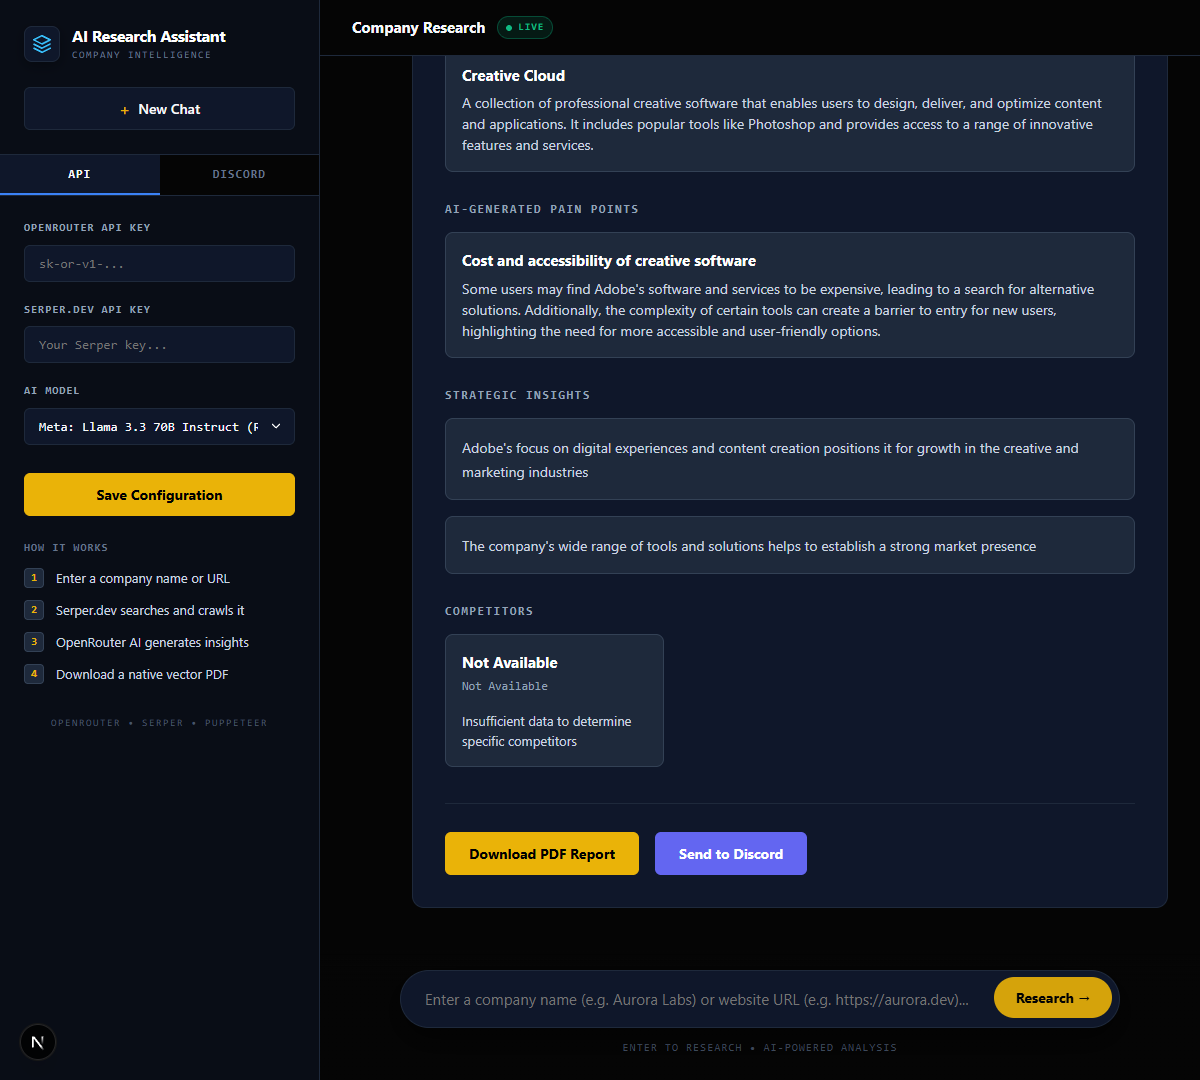
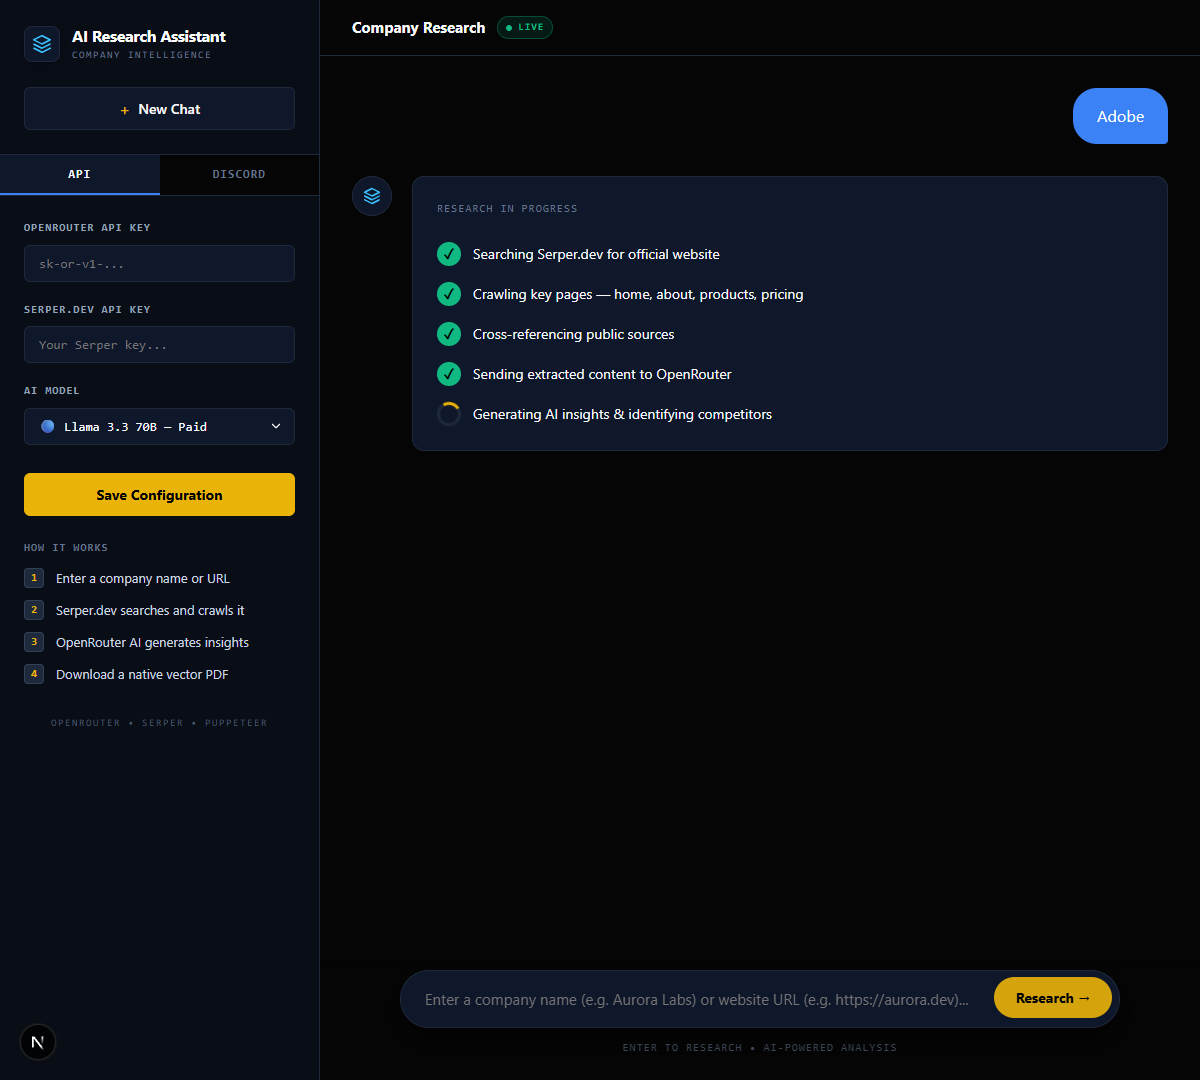
Fix Discord file payload bytes, disable auto-send, and fix Vercel Chromium 404 URL

diff --git a/outputs/Stripe_PDF_Source.html b/outputs/Stripe_PDF_Source.html
@@ -156,42 +156,42 @@
       <body>
         <div class="header-banner">
           <div class="subtitle">Executive Intelligence Report</div>
-          <h1 class="title">OpenAI</h1>
+          <h1 class="title">Frontech</h1>
           <div class="meta-info">
-            <div><strong>Website:</strong> <a href="https://openai.com/" target="_blank">https://openai.com/</a></div>
-            <div><strong>Phone:</strong> Not Available</div>
-            <div><strong>Address:</strong> Not Available</div>
+            <div><strong>Website:</strong> <a href="https://frontechonline.com" target="_blank">https://frontechonline.com</a></div>
+            <div><strong>Phone:</strong> 1800 345 4500 (Toll Free)</div>
+            <div><strong>Address:</strong> 49B, C.R. Avenue, 1st Floor, Beside All India Forward Block Office, Kolkata - 700012, West Bengal, India</div>
           </div>
         </div>
 
         
         <div class="metadata-bar">
-          <div><strong>CONFIDENCE:</strong> 95%</div>
-          <div><strong>PAGES CRAWLED:</strong> 1</div>
-          <div><strong>DURATION:</strong> 88.1s</div>
-          <div><strong>MODEL:</strong> meta-llama/llama-3.3-70b-instruct</div>
+          <div><strong>CONFIDENCE:</strong> 90%</div>
+          <div><strong>PAGES CRAWLED:</strong> 2</div>
+          <div><strong>DURATION:</strong> 56.3s</div>
+          <div><strong>MODEL:</strong> nvidia/nemotron-3-ultra-550b-a55b:free</div>
         </div>
         
 
         <div class="section-block">
           <h2>Executive Summary</h2>
-          <p>OpenAI is an American artificial intelligence research organization that develops generative AI models, with a mission to ensure that artificial general intelligence benefits all of humanity. The company's research focuses on creating systems that can solve human-level problems, and it has developed a range of products and services, including the GPT series of large language models and ChatGPT. OpenAI aims to make its technology accessible to businesses and individuals, and it has partnered with various companies to integrate its AI models into their operations. The company's goal is to advance the field of artificial intelligence and to ensure that its benefits are shared by all.</p>
+          <p>Established in 1995, Frontech is a leading Indian brand in computer accessories and peripherals, headquartered in Kolkata with a pan-India presence spanning 23 branches and over 350 employees. The company operates an extensive service network ('Frontech Family') of authorized service centers and channel partners, providing warranty support to several million end users. Frontech positions itself as a trusted provider of gaming monitors, keyboards, soundbars, storage, memory, and other IT peripherals through both online and offline channels.</p>
         </div>
 
         <div class="section-block">
           <h2>Market Positioning</h2>
-          <p>The target audience of OpenAI includes businesses, developers, and individuals who are interested in using artificial intelligence to solve complex problems, automate tasks, and generate new ideas. The company's products and services are designed to be used by a wide range of users, from sales and marketing teams to software developers and researchers.</p>
+          <p>Indian consumers, gamers, professionals, SMEs, and educational institutions seeking reliable, warranty-backed computer peripherals and accessories. The brand targets value-conscious buyers who prioritize after-sales service accessibility across tier-1 and tier-2 cities.</p>
         </div>
 
         <div class="section-block">
           <h2>Business Model</h2>
-          <p>OpenAI generates revenue through a range of channels, including licensing its AI models to businesses, offering API access to developers, and providing consulting services to companies that want to integrate its technology into their operations. The company also offers a range of free tools and resources, including ChatGPT, which allows users to interact with its AI models and generate text, images, and other types of content.</p>
+          <p>Frontech generates revenue through the design, manufacturing/white-labeling, and distribution of branded computer peripherals (monitors, audio, storage, input devices, consumables). It employs an omnichannel strategy: direct-to-consumer via its e-commerce portal, and a vast B2B2C network of distributors, dealers, and resellers. The extensive owned and authorized service center infrastructure acts as a retention moat and differentiator, driving brand loyalty and repeat purchases.</p>
         </div>
 
         <div class="section-block">
           <h2>Key Observations</h2>
           <ul>
-            <li>OpenAI is a leader in the development of generative AI models, and its technology has the potential to transform a wide range of industries, from healthcare and finance to education and entertainment.</li><li>The company's mission to ensure that artificial general intelligence benefits all of humanity reflects its commitment to using technology to drive positive change and improve people's lives.</li>
+            <li>Deep offline service infrastructure (23 branches + numerous authorized service centers) creates a significant competitive barrier in the Indian market where after-sales support is a key purchase driver.</li><li>Product portfolio spans both commodity peripherals (RAM, SSD, toner) and differentiated gaming gear (Ultima monitors, mechanical keyboards, soundbars), enabling margin mix optimization.</li><li>Longevity since 1995 and a workforce of 350+ indicate strong organizational stability and supply chain maturity in a fragmented industry.</li>
           </ul>
         </div>
 
@@ -200,13 +200,33 @@
           <div class="grid-2">
             
           <div class="card">
-            <div class="card-title">ChatGPT</div>
-            <div class="card-desc">ChatGPT is a conversational AI model that allows users to interact with OpenAI's technology and generate text, images, and other types of content. It is designed to be used by a wide range of users, from individuals to businesses, and can be integrated into a variety of applications and services.</div>
+            <div class="card-title">Ultima Gaming Monitors</div>
+            <div class="card-desc">High-refresh-rate gaming monitors positioned as a flagship line targeting esports enthusiasts and content creators, offering competitive specs at accessible price points.</div>
           </div>
         
           <div class="card">
-            <div class="card-title">GPT-5.6</div>
-            <div class="card-desc">GPT-5.6 is a large language model that is designed to generate human-like text and other types of content. It is one of the most advanced AI models developed by OpenAI, and reflects the company's commitment to pushing the boundaries of what is possible with AI technology.</div>
+            <div class="card-title">Soundbars & Woofers</div>
+            <div class="card-desc">Audio peripherals designed for PC and multimedia use, emphasizing Bluetooth connectivity and compact form factors for home office and entertainment setups.</div>
+          </div>
+        
+          <div class="card">
+            <div class="card-title">SSD & RAM Modules</div>
+            <div class="card-desc">Performance storage and memory upgrades catering to DIY PC builders and system integrators, backed by Frontech's warranty and service network.</div>
+          </div>
+        
+          <div class="card">
+            <div class="card-title">Gaming Keyboards & Mice</div>
+            <div class="card-desc">Mechanical and membrane keyboards with RGB lighting, alongside ergonomic gaming mice, differentiated by quick response times and durability claims.</div>
+          </div>
+        
+          <div class="card">
+            <div class="card-title">Toner Cartridges & Laminators</div>
+            <div class="card-desc">Office consumables and document finishing equipment targeting SME and institutional procurement, providing recurring revenue streams.</div>
+          </div>
+        
+          <div class="card">
+            <div class="card-title">PC Cabinets & Accessories</div>
+            <div class="card-desc">Chassis and cooling solutions for custom PC assembly, completing the ecosystem for system builders.</div>
           </div>
         
           </div>
@@ -217,13 +237,18 @@
           <div class="grid-2">
             
           <div class="card">
-            <div class="card-title">Complexity of AI technology</div>
-            <div class="card-desc">One of the major pain points for users of OpenAI's technology is the complexity of AI systems, which can be difficult to understand and use. The company's products and services are designed to simplify the process of interacting with AI models, and to make it easier for users to generate high-quality content and solve complex problems.</div>
+            <div class="card-title">Brand Perception vs. Global Giants</div>
+            <div class="card-desc">Despite strong local service, Frontech competes with global brands (Logitech, HP, Dell, Samsung) that command higher mindshare in premium segments. Overcoming the 'budget brand' perception to capture higher-margin gaming/professional segments remains a challenge.</div>
           </div>
         
           <div class="card">
-            <div class="card-title">Accessibility of AI technology</div>
-            <div class="card-desc">Another pain point for users of OpenAI's technology is the accessibility of AI systems, which can be limited by factors such as cost, availability, and user expertise. The company's mission to make its technology accessible to all reflects its recognition of the need to address these challenges and to make AI more widely available.</div>
+            <div class="card-title">Supply Chain & Component Cost Volatility</div>
+            <div class="card-desc">Reliance on imported components (panels, controllers, NAND flash) exposes margins to currency fluctuations and global semiconductor shortages, impacting pricing consistency across the vast dealer network.</div>
+          </div>
+        
+          <div class="card">
+            <div class="card-title">Channel Conflict Management</div>
+            <div class="card-desc">Balancing direct online sales (frontechonline.com) with the interests of 23 branches and hundreds of distributors/resellers requires careful pricing and inventory policies to prevent channel stuffing or margin erosion.</div>
           </div>
         
           </div>
@@ -232,7 +257,7 @@
         <div class="section-block">
           <h2>Strategic Insights</h2>
           <ul>
-            <li>OpenAI's focus on developing AI models that can solve human-level problems reflects its recognition of the need for more advanced and sophisticated AI systems that can tackle complex challenges.</li><li>The company's partnerships with businesses and organizations reflect its recognition of the need for collaboration and cooperation to drive innovation and adoption of AI technology.</li>
+            <li>The 'Frontech Family' service network is a strategic asset that can be monetized beyond warranty—potential for paid repair services, AMC contracts, and e-waste management partnerships.</li><li>Expansion into gaming peripherals (high-refresh monitors, RGB keyboards) aligns with India's booming esports and creator economy, allowing premium pricing over commodity lines.</li><li>Leveraging the Kolkata headquarters as an eastern hub while scaling zonal offices in Bangalore and other metros positions Frontech to capture regional demand shifts toward tier-2/3 cities.</li>
           </ul>
         </div>
 
@@ -249,15 +274,33 @@
             <tbody>
               
           <tr style="page-break-inside: avoid;">
-            <td><strong>Google DeepMind</strong></td>
-            <td><a href="https://www.deepmind.com/" target="_blank">https://www.deepmind.com/</a></td>
-            <td>Google DeepMind is a competitor to OpenAI in the development of AI models and systems, and is one of the leading companies in the field of artificial intelligence. The two companies are competing to develop the most advanced AI models and to drive innovation in the field.</td>
+            <td><strong>Zebronics</strong></td>
+            <td><a href="https://www.zebronics.com" target="_blank">https://www.zebronics.com</a></td>
+            <td>Direct Indian competitor with similar product portfolio (audio, peripherals, gaming gear), comparable price positioning, and extensive retail distribution across India.</td>
           </tr>
         
           <tr style="page-break-inside: avoid;">
-            <td><strong>Anthropic</strong></td>
-            <td><a href="https://www.anthropic.com/" target="_blank">https://www.anthropic.com/</a></td>
-            <td>Anthropic is a competitor to OpenAI in the development of AI models and systems, and is focused on creating more transparent and explainable AI systems. The company's technology is designed to be used by a wide range of users, and reflects its recognition of the need for more accessible and user-friendly AI systems.</td>
+            <td><strong>iBall</strong></td>
+            <td><a href="https://www.iball.co.in" target="_blank">https://www.iball.co.in</a></td>
+            <td>Long-standing Indian brand in peripherals and audio, overlapping in categories like speakers, keyboards, mice, and webcams, targeting the same value-conscious consumer base.</td>
+          </tr>
+        
+          <tr style="page-break-inside: avoid;">
+            <td><strong>TVS Electronics</strong></td>
+            <td><a href="https://www.tvselec.com" target="_blank">https://www.tvselec.com</a></td>
+            <td>Established Indian player with stronghold in keyboards, mice, and POS peripherals, leveraging similar channel depth in South and West India.</td>
+          </tr>
+        
+          <tr style="page-break-inside: avoid;">
+            <td><strong>Logitech</strong></td>
+            <td><a href="https://www.logitech.com" target="_blank">https://www.logitech.com</a></td>
+            <td>Global leader in PC peripherals; sets the benchmark for quality and innovation in gaming and productivity accessories, competing for the aspirational upgraders.</td>
+          </tr>
+        
+          <tr style="page-break-inside: avoid;">
+            <td><strong>HP Inc.</strong></td>
+            <td><a href="https://www.hp.com" target="_blank">https://www.hp.com</a></td>
+            <td>Major OEM with branded monitor and accessory lines, leveraging enterprise relationships and brand trust to capture institutional and prosumer segments.</td>
           </tr>
         
             </tbody>

diff --git a/src/app/api/discord/route.js b/src/app/api/discord/route.js
@@ -25,16 +25,12 @@ export async function POST(request) {
     }
     const cleanChannelId = String(channelId).trim().replace(/^["']|["']$/g, '');
 
-    // Convert file Blob to Buffer
-    const arrayBuffer = await file.arrayBuffer();
-    const buffer = Buffer.from(arrayBuffer);
-
     // Sanitize filename to strict ASCII to prevent ByteString HTTP Header errors
     const safeCompanyName = String(companyName || 'company')
       .replace(/[^\x00-\x7F]/g, '') // remove non-ASCII
       .replace(/[^\w\s-]/g, '')     // remove special chars
       .trim()
-      .replace(/\s+/g, '_') || 'Company';
+      .replace(/\s+/g, '_');
 
     const fileName = `${safeCompanyName}_Report.pdf`;
 
@@ -55,8 +51,7 @@ export async function POST(request) {
       content: safeMessageContent
     }));
 
-    const pdfBlob = new Blob([buffer], { type: 'application/pdf' });
-    discordPayload.append('files[0]', pdfBlob, fileName);
+    discordPayload.append('files[0]', file, fileName);
 
     const discordResponse = await fetch(`https://discord.com/api/v10/channels/${cleanChannelId}/messages`, {
       method: 'POST',

diff --git a/src/lib/scraper.js b/src/lib/scraper.js
@@ -36,7 +36,7 @@ async function scrapeWithPuppeteer(baseUrl) {
       browser = await puppeteerCore.launch({
         args: chromium.args,
         defaultViewport: chromium.defaultViewport,
-        executablePath: await chromium.executablePath('https://github.com/Sparticuz/chromium/releases/download/v149.0.0/chromium-v149.0.0-pack.tar'),
+        executablePath: await chromium.executablePath('https://github.com/Sparticuz/chromium/releases/download/v149.0.0/chromium-v149.0.0-pack.x64.tar'),
         headless: chromium.headless,
       });
     } else {

diff --git a/src/app/api/pdf/route.js b/src/app/api/pdf/route.js
@@ -307,7 +307,7 @@ export async function POST(request) {
       browser = await puppeteerCore.launch({
         args: chromium.args,
         defaultViewport: chromium.defaultViewport,
-        executablePath: await chromium.executablePath('https://github.com/Sparticuz/chromium/releases/download/v149.0.0/chromium-v149.0.0-pack.tar'),
+        executablePath: await chromium.executablePath('https://github.com/Sparticuz/chromium/releases/download/v149.0.0/chromium-v149.0.0-pack.x64.tar'),
         headless: chromium.headless,
       });
     } else {

diff --git a/src/components/MainUI.js b/src/components/MainUI.js
@@ -177,11 +177,6 @@ export default function MainUI() {
         return nextState;
       });
       
-      // Auto-send to Discord if configured
-      if (settings.discordToken && settings.discordChannel) {
-        sendToDiscord(data);
-      }
-      
     } catch (err) {
       clearInterval(interval);
       console.error(err);
